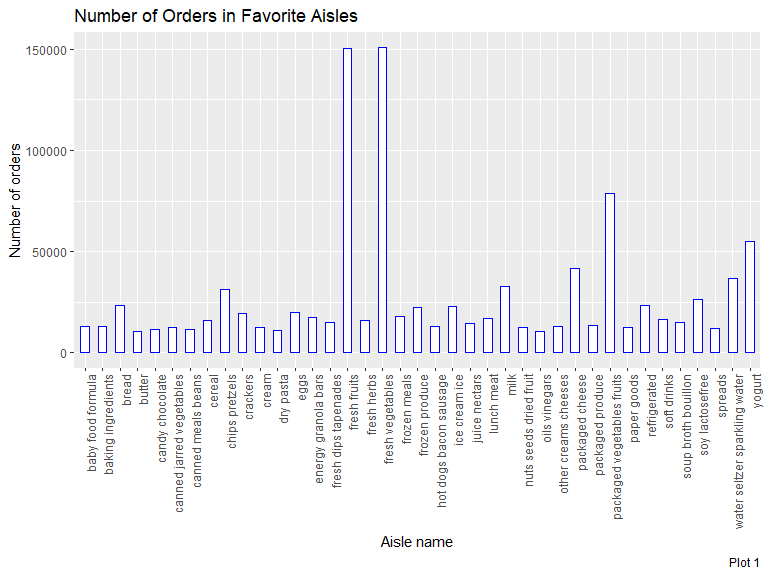
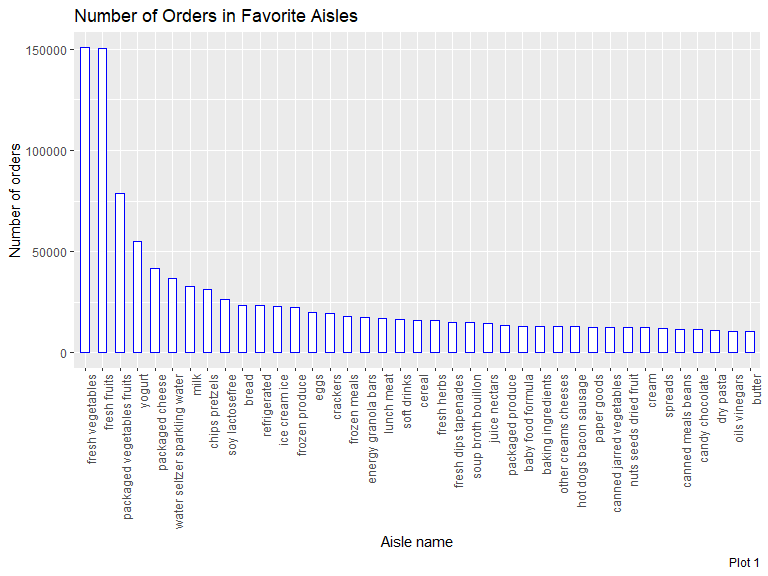
I added some description to describe my dataset in problem 1 and also reordered my bards in bar plot to make it more reasonable and informative

diff --git a/p8105_hw3_ha2546.md b/p8105_hw3_ha2546.md
@@ -3,6 +3,24 @@ p8105\_hw3\_ha2546
 Hana Akbarnejad
 10/9/2019
 
+``` r
+# set.seed(5)
+# random_sample = instacart %>% 
+#   filter(
+#   sample(pull(instacart, order_id))
+#   )
+```
+
+In the first problem, we are interested in exploring the *instacart*
+dataset. This dataset stores information about online grocery shopping
+from 2017. The datset contains 1384617 observations of 131209 unique
+orders of 39123 differennt products. There are 15 variables associated
+with these rows such as *order\_dow* (the day of the week that the order
+has been placed), *order\_hour\_of\_day* (the time of the day that the
+order has been placed), *product\_name* (the item purchased), *aisle*
+(the aisle that the item has chosen from), etc. We can take differenvt
+samples from this dataset.
+
 # Problem1
 
 How many aisles are there, and which aisles are the most items ordered
@@ -19,9 +37,6 @@ the aisle names on x axis and the number of items ordered on y axis.
 **should we arrange the columns from most to least? how?**
 
 ``` r
-library(p8105.datasets)
-data("instacart")
-
 aisle_fav_n = instacart %>% 
   group_by(aisle) %>% 
   count(aisle, name = "aisle_order_n") %>% 
@@ -29,7 +44,7 @@ aisle_fav_n = instacart %>%
 
 aisle_fav_plot = aisle_fav_n %>% 
   filter(aisle_order_n > 10000) %>% 
-  ggplot(aes(x = aisle, y = aisle_order_n)) +
+  ggplot(aes(x = reorder(aisle, -aisle_order_n), y = aisle_order_n)) +
   geom_bar(stat="identity", width=0.5, color="blue", fill="white") +
   theme(axis.text.x = element_text(angle = 90, hjust = 1)) +
   labs(
@@ -64,6 +79,8 @@ aisle_fav_plot
 
 <img src="p8105_hw3_ha2546_files/figure-gfm/instacart-1.png" width="90%" />
 
+**top\_n doesn’t seem working**
+
 ``` r
 x = instacart %>% 
   select(product_name, aisle) %>% 
@@ -72,4 +89,21 @@ x = instacart %>%
   summarize(count = n()) %>% 
   arrange(desc(count)) %>% 
   top_n(3, count)
+```
+
+In this part,
+
+``` r
+hours_days_products = instacart %>% 
+  select(product_name, order_dow, order_hour_of_day) %>% 
+  filter(product_name == c("Pink Lady Apples", "Coffee Ice Cream")) %>% 
+  group_by(product_name, order_dow) %>% 
+  summarize(
+    hours_mean = mean(order_hour_of_day)
+  ) %>% 
+  pivot_wider(
+    names_from = order_dow,
+    values_from = hours_mean
+  ) %>% 
+  knitr::kable(digits = 1)
 ```
